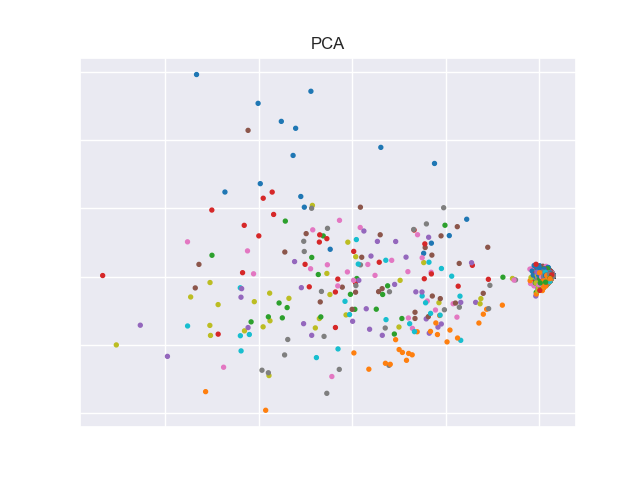
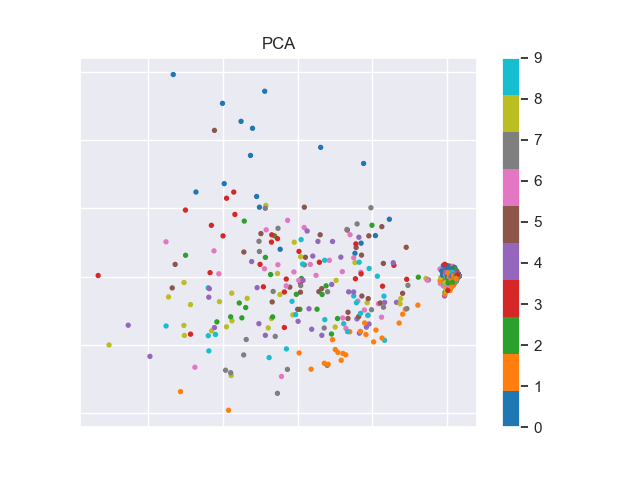
Metrics to determine the precision of the clustering.

diff --git a/ObjectRecognition/Multi-Shot/pca.py b/ObjectRecognition/Multi-Shot/pca.py
@@ -23,9 +23,11 @@ def pca_full_mnist():
     plt.scatter(Zpca[:5000,0], Zpca[:5000,1], c=y_train[:5000], s=8, cmap='tab10')
     plt.gca().get_xaxis().set_ticklabels([])
     plt.gca().get_yaxis().set_ticklabels([])
+    plt.colorbar()
     plt.savefig("figures/pca_full")
     plt.show()
 
+# pca_full_mnist()
 
 
 def pca():
@@ -36,14 +38,24 @@ def pca():
     """
     matrix_encodings, labels =  get_known_encodings()
     matrix_encodings = np.transpose(matrix_encodings)
-    n_components = 3
+    n_components = 20
 
     x = (matrix_encodings - np.mean(matrix_encodings, 0)) / np.std(matrix_encodings, 0)
     pca = deco.PCA(n_components)
     x_r = pca.fit(x).transform(x)
+
+    plt.figure(figsize=(10, 7))
+    plt.plot(np.cumsum(pca.explained_variance_ratio_), color='k', lw=2)
+    plt.xlabel('Number of components')
+    plt.ylabel('Total explained variance')
+    plt.xlim(0, 20)
+    plt.yticks(np.arange(0, 1.1, 0.1))
+    plt.axvline(6.5, c='b')
+    plt.axhline(0.9, c='r')
+    plt.savefig("figures/pca_explained_variance")
+    plt.show();
+
     return x_r, labels
-
-
 
 def plot3D(data, labels):
     """
@@ -103,7 +115,7 @@ def plot2D(data, labels):
     plt.savefig("figures/pca_current_encodings_2D")
     plt.show()
 
-pca_data, db_labels = pca()
-plot3D(pca_data, db_labels)
-plot2D(pca_data, db_labels)
+# pca_data, db_labels = pca()
+# plot3D(pca_data, db_labels)
+# plot2D(pca_data, db_labels)
 

diff --git a/ObjectRecognition/Multi-Shot/metrics.py b/ObjectRecognition/Multi-Shot/metrics.py
@@ -1,0 +1,34 @@
+from sklearn import metrics
+from sklearn import datasets
+import pandas as pd
+from sklearn.cluster import KMeans, AgglomerativeClustering, AffinityPropagation, SpectralClustering
+
+
+data = datasets.load_digits()
+X, y = data.data, data.target
+
+algorithms = []
+algorithms.append(KMeans(n_clusters=10, random_state=1))
+algorithms.append(AffinityPropagation())
+algorithms.append(SpectralClustering(n_clusters=10, random_state=1,
+                                     affinity='nearest_neighbors'))
+algorithms.append(AgglomerativeClustering(n_clusters=10))
+
+data = []
+for algo in algorithms:
+    algo.fit(X)
+    data.append(({
+        'ARI': metrics.adjusted_rand_score(y, algo.labels_),
+        'AMI': metrics.adjusted_mutual_info_score(y, algo.labels_),
+        'Homogenity': metrics.homogeneity_score(y, algo.labels_),
+        'Completeness': metrics.completeness_score(y, algo.labels_),
+        'V-measure': metrics.v_measure_score(y, algo.labels_),
+        'Silhouette': metrics.silhouette_score(X, algo.labels_)}))
+
+results = pd.DataFrame(data=data, columns=['ARI', 'AMI', 'Homogenity',
+                                           'Completeness', 'V-measure',
+                                           'Silhouette'],
+                       index=['K-means', 'Affinity',
+                              'Spectral', 'Agglomerative'])
+
+results

diff --git a/ObjectRecognition/Multi-Shot/t-sne.py b/ObjectRecognition/Multi-Shot/t-sne.py
@@ -45,7 +45,7 @@ def plot_tsne(np_train_xs, np_train_ys, dim_y):
     plt.savefig("figures/tsne_full")
     plt.show()
 
-np_train_xs, np_train_ys, dim_y = t_sne_full_mnist()
+# np_train_xs, np_train_ys, dim_y = t_sne_full_mnist()
 # plot_tsne(np_train_xs, np_train_ys, dim_y)
 
 def t_sne():
@@ -119,6 +119,6 @@ def plot2D(data, labels):
     plt.savefig("figures/tsne_current_encodings_2D")
     plt.show()
 
-pca_data, db_labels = t_sne()
-plot3D(pca_data, db_labels)
-plot2D(pca_data, db_labels)
+# pca_data, db_labels = t_sne()
+# plot3D(pca_data, db_labels)
+# plot2D(pca_data, db_labels)
